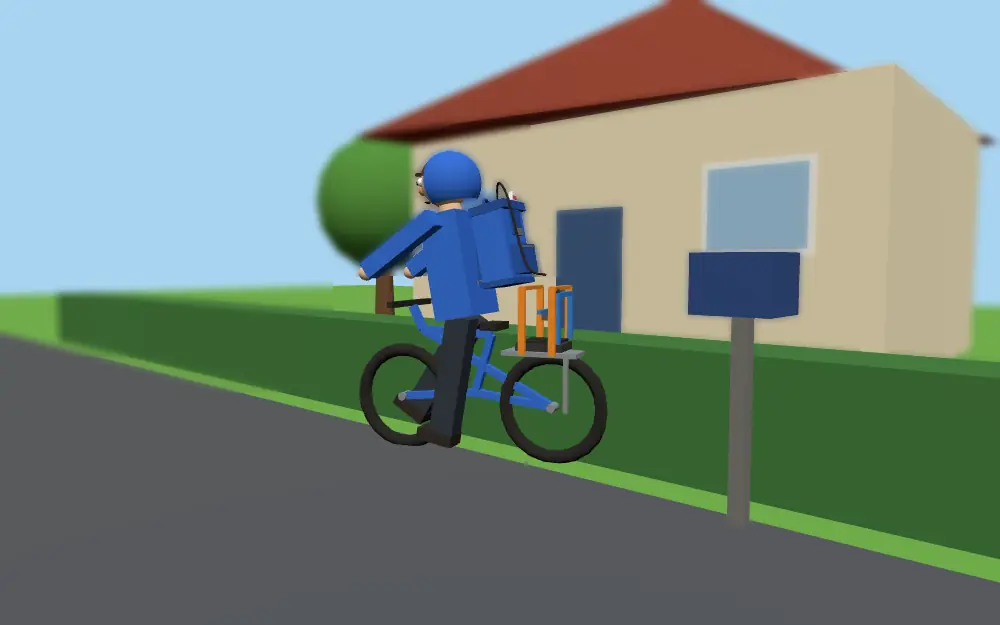
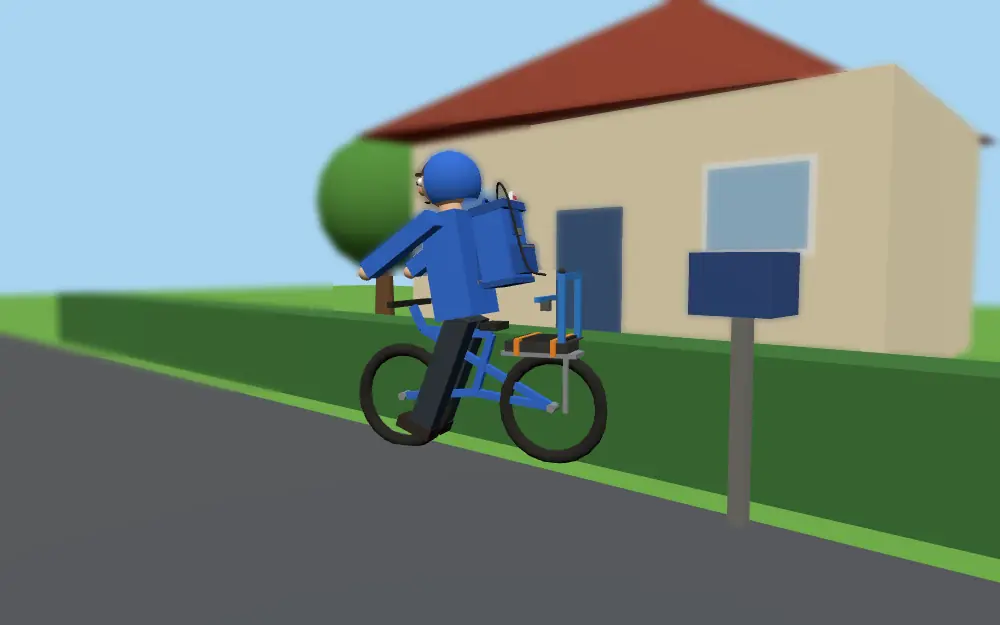
Soptippsvägen 1: punkt 9, 10, 12 och 13
- 9: Skrivare S syns tydligt på pakethållaren (samma modell, större, banden bara runt plattan);
  generatorcykeln är samma cykel som kom på vägen; introbilderna 9, 10 och 12 omrenderade
- 10: sms syns som bubbla uppe till höger när rösten börjar, även med en meny öppen;
  brorsans sms lästes upp två gånger – rättat
- 12: toasts U001–U013 på händelser (brevLast, morgonkortStangt, placerat:leveranslada, efter Alis hälsning, julens slut)
- 13: verktyg/test-start.mjs – spelet startar i en tom webbläsare utan sidfel

Claude-Session: https://claude.ai/code/session_014156cp9JxbGsW1A8ZsF5gD

Changed region(s): [[0.372, 0.4256, 0.589, 0.7296]]

diff --git a/spel/printa-hem/spel.js b/spel/printa-hem/spel.js
@@ -2918,7 +2918,7 @@ function startaDirekt(sk, val) {
     if (v.niva === 2 && sk.gen !== PETG_GEN) return false;   // PETG-saker kräver PETG-skrivaren
     if (sk.gen === PETG_GEN && v.niva !== 2) return false;
     if (v.niva && v.niva !== 2) {   // kräver en rulle av rätt nivå (förbrukas när utskriften startar)
-      if (!antalInv('rulle' + v.niva)) { setTimeout(() => ui.toast(`Kräver en rulle ${VAROR['rulle' + v.niva].namn.toLowerCase()} i verktygsraden eller kistan`, 'fel'), 50); return false; }
+      if (!antalInv('rulle' + v.niva)) { ui.toast(`Kräver en rulle ${VAROR['rulle' + v.niva].namn} i verktygsraden eller kistan`, 'fel'); return false; }   // U001: direkt
       taBortInv('rulle' + v.niva);
     }
     sk.jobb = { typ: val.typ };
@@ -3047,7 +3047,7 @@ const auto = { byggd: false, band: null, paket: [], bandT: 0, arm: null, armT: 0
 function monteraAuto(id) {
   if (id === 'utlada') {   // leveranslådan slår på upprepa för alla skrivare med autoprint (går att stänga av per skrivare)
     for (const sk of skrivare) if (sk.gen !== PETG_GEN) { sk.upprepaPa = true; if (sk.jobb?.typ && upprepbar(sk.jobb.typ)) sk.upprepa = sk.jobb.typ; }
-    sparaSkrivare(); setTimeout(() => ui.toast('Leveranslådan är på – skrivarna printar vidare av sig själva.', 'guld'), 2600);
+    sparaSkrivare(); handelse('placerat', { sak: 'leveranslada' });
   }
   S.auto[{ rullband: 'band', lastarm: 'lastarm', robotarm: 'arm', utlada: 'lada' }[id]] = true; byggAuto(); ljud.stor(); sparaSnart();
   ui.toast({ rullband: 'Rullbandet står klart! Bär skräp till inmatningen vid tippen – bandet tar det till containern.', lastarm: 'Lastarmen sitter vid tippen och lägger skräp på bandet åt dig. Den orkar bara lätta saker – trimma den hos Ali.', robotarm: 'Robotarmen sitter vid kvarnen – färdiga rullar laddas in i skrivarna automatiskt.', utlada: 'Leveranslådan står vid skrivaren. Välj en sak på skrivaren och slå på Autoprint – Ali hämtar lådan varje morgon.' }[id], 'guld');
@@ -3367,15 +3367,26 @@ const vagCykel = new THREE.Group(); {
   // pakethållaren över bakhjulet, med storebrors skrivare fastspänd med två orange spännband
   vagCykel.add(at(box(0.32, 0.03, 0.5, stal), 0, 0.72, -0.5));
   for (const x of [-0.14, 0.14]) vagCykel.add(at(box(0.03, 0.36, 0.03, stal), x, 0.54, -0.68));
-  const pakS = skapaSkrivare(1); pakS.scale.setScalar(0.62); pakS.position.set(0, 0.74, -0.5); vagCykel.add(pakS); vagCykel.userData.skrivare = pakS;
+  // punkt 9: samma Skrivare S som på gården (skapaSkrivare(1)), stor nog att kännas igen – spännbanden bara runt bottenplattan
+  const pakS = skapaSkrivare(1); pakS.scale.setScalar(0.82); pakS.position.set(0, 0.74, -0.5); vagCykel.add(pakS); vagCykel.userData.skrivare = pakS;
   const bandMat = mat(0xf28c28);
-  for (const z of [-0.6, -0.4]) { vagCykel.add(at(box(0.36, 0.025, 0.045, bandMat), 0, 1.14, z)); for (const x of [-0.18, 0.18]) vagCykel.add(at(box(0.025, 0.42, 0.045, bandMat), x, 0.93, z)); }
-  vagCykel.add(at(box(0.04, 0.32, 0.04, svart), 0.08, 0.16, -0.1).rotateZ(0.5));   // stödet
+  for (const z of [-0.62, -0.38]) { vagCykel.add(at(box(0.44, 0.02, 0.035, bandMat), 0, 0.815, z)); for (const x of [-0.215, 0.215]) vagCykel.add(at(box(0.02, 0.1, 0.035, bandMat), x, 0.77, z)); }
+  { const st = at(box(0.04, 0.32, 0.04, svart), 0.08, 0.16, -0.1).rotateZ(0.5); st.userData.stod = true; vagCykel.add(st); }   // stödet
   vagCykel.position.set(VAG_CYKEL.x, 0, VAG_CYKEL.z); vagCykel.rotation.set(0, VAG_CYKEL.rot, 0.08);
   vagCykel.traverse((o) => { if (o.isMesh) o.castShadow = true; });
   scen.add(vagCykel);
 }
 traffYta(vagCykel, 0.7, 1.2, 1.8);
+// punkt 9: generatorcykeln är samma cykel som kom på vägen (utan skrivaren, banden och stödet), upplyft på stället.
+// Den gamla lådcykelns delar döljs; generatorn och blixten sitter kvar.
+{
+  const c = vagCykel.clone(true); c.position.set(0, 0.18, 0); c.rotation.set(0, 0, 0);
+  const bort = []; c.traverse((o) => { if (o === c) return; if (o.type === 'Group' || o.userData.stod || (o.isMesh && o.material?.color?.getHex?.() === 0xf28c28)) bort.push(o); });
+  bort.forEach((o) => o.parent?.remove(o)); c.traverse((o) => { o.visible = true; });
+  for (const o of [...cykel.children]) if (o !== generator && o !== blixt && o !== pedaler && !(o.material === traffMat)) o.visible = false;
+  pedaler.position.y = 0.6; cykel.add(c);
+  cykel.userData.hjul = c.children.filter((o) => o.geometry?.type === 'TorusGeometry');
+}
 // stället som cykeln lyfts upp på vid linje 1 (bakhjulet blir fritt)
 const cykelStall = new THREE.Group(); {
   const m = mat(0x555c66, { metalness: 0.4 });
@@ -3454,7 +3465,7 @@ function korTextKo() {
     const x = textKo[i];
     if (x.o.stryksOm?.()) { textKo.splice(i, 1); textLogg('struken', x.kalla, x.o.text || '', 'pekar bakåt'); return; }
     if (x.vikt === 'REAKTION' && nu - x.t > REAKTION_MAX_VANTAN) { textKo.splice(i, 1); textLogg('struken', x.kalla, x.o.text || '', 'väntade för länge'); return; }
-    if (x.vikt === 'SMÅPRAT' && (!ui.butiksOverlay.hidden || pausad || !ui.igang)) continue;
+    if (x.vikt === 'SMÅPRAT' && (pausad || !ui.igang)) continue;   // punkt 10: sms syns även med en meny öppen
     if (x.kalla !== textSenastKalla && nu - textSenast < TEXT_MELLAN) return;
     textKo.splice(i, 1); textSenast = nu; textSenastKalla = x.kalla; x.visa(); return;
   }
@@ -4757,7 +4768,7 @@ function rolfBrevLast(i) {
   S.rolf.aktiv = true;
   const o = ROLF[i]; if (!o) return;
   if (!S.ritningar.includes('gava:' + o.vara)) S.ritningar.push('gava:' + o.vara);
-  setTimeout(() => ui.toast(`📐 3D-modellen till ${VAROR[o.vara].namn.toLowerCase()} låg med i brevet – printa den på skrivaren`, 'guld'), 1200);
+  efterBrev('rolf:' + i, () => ui.toast(`📐 3D-modellen till ${VAROR[o.vara].namn} låg med i brevet – printa den på skrivaren`, 'guld'));   // U003
   const fs = (o.forskott || []).filter((b) => !(b === 'nyckel' && S.tippNyckel) && !(b === 'karra' && S.karra));
   if (fs.length) {
     for (const b of fs) { if (b === 'nyckel') { S.tippNyckel = true; oppnaGrind(); } else if (b === 'karra') { S.karra = true; const k = laggTill('karra'); if (typeof k === 'number') byt(k); } }
@@ -4813,7 +4824,7 @@ function visaFynd(lista, efter) {
 }
 function efterBeloning(lista) {
   const nr = S.rolf.i - 1;
-  for (const b of lista) if (b.startsWith('tack:')) { if (!S.rolfNummer) setTimeout(() => sms('rolf', ROLF_TACK[b.slice(5)].text), 1200); S.rolf.presenter = (S.rolf.presenter || 0) + 1; andraRespekt(Math.round(6 + VAROR[b.slice(5)].present / 400), 'Gav Rolf en present'); setTimeout(() => ui.toast(`Rolf kommer nu oftare med lass – var ${Math.round(sopbilVar())} s och ${SOPBIL_LAST + sopbilExtra()} skräp per lass`, 'guld'), 2500); }
+  for (const b of lista) if (b.startsWith('tack:')) { if (!S.rolfNummer) setTimeout(() => sms('rolf', ROLF_TACK[b.slice(5)].text), 1200); S.rolf.presenter = (S.rolf.presenter || 0) + 1; andraRespekt(Math.round(6 + VAROR[b.slice(5)].present / 400), 'Gav Rolf en present'); setTimeout(() => ui.toast(`Rolf kommer nu oftare med lass – var ${Math.round(sopbilVar())} s och ${SOPBIL_LAST + sopbilExtra()} skräp per lass`, 'guld'), 1000); }   // U004: efter att Rolfs tack lästs (efterBeloning körs när rutan stängs)
   if (lista.includes('jobb')) andraRespekt(-3, 'Gjorde ett skumt jobb åt Rolf');
   const ovrigt = lista.includes('jobb') || lista.includes('heder') || lista.some((b) => b.startsWith('tack:') || b.startsWith('ritning:') || b.startsWith('nmynt:'));
   if (lista.includes('jobb')) sms('rolf', ROLF_JOBB[S.rolf.jobbTack % ROLF_JOBB.length].tackJa);
@@ -4871,7 +4882,34 @@ function smsFram(fran, text, id, o = {}) {
   textLogg('sms', fran, text);
   // syns direkt som en bubbla i inkorgen uppe till höger – uppläsningen väntar på sin tur i kön
   const m = { fran, text, ny: true }; S.sms.push(m); S.sms = S.sms.slice(-40); S.olasta = S.sms.filter((x) => x.ny).length; sparaSnart();
-  inkorg({ vem: fran, titel: AVSANDARE[fran]?.namn || fran, text, smsId: id, klar: () => { m.ny = false; smsLast(fran); } });
+  smsBubbla(fran, AVSANDARE[fran]?.namn || fran, text, () => { m.ny = false; smsLast(fran); });
+}
+// punkt 10: varje sms syns som en bubbla uppe till höger i samma ögonblick som rösten börjar – även när en meny är öppen.
+// Texten ligger kvar i Dagbok → Meddelanden (S.sms).
+const smsFack = document.createElement('div'); smsFack.className = 'hud-smsfack'; document.body.appendChild(smsFack);
+{ const st = document.createElement('style'); st.textContent = `.hud-smsfack{position:fixed;right:max(12px,env(safe-area-inset-right));top:calc(var(--bar-h,64px) + 10px);z-index:120;width:min(380px,92vw);display:flex;flex-direction:column;gap:8px;pointer-events:none}
+.hud-smsfack .hud-ios{position:relative;right:auto;top:auto;width:auto}`; document.head.appendChild(st); }
+function smsBubbla(vem, titel, text, klar) {
+  const el = document.createElement('div'); el.className = 'hud-ios';
+  el.innerHTML = `<div class="app app-portratt">${humorPortratt(vemAvSms(vem), text, 38)}</div><div class="inne"><div class="topp"><span>MEDDELANDEN</span><span class="nu">nu</span></div><div class="fran"><b>${rens(titel)}</b></div><div class="txt">${rens(text)}</div><div class="hud-bubbla-bar"><i></i></div></div>`;
+  let visad = false, start = 0;
+  const visa = () => {
+    if (visad) return; visad = true; start = performance.now();
+    triTon(); hudEl.querySelector('[data-hud="sms"]')?.animate([{ transform: 'scale(1.12)' }, { transform: 'scale(1)' }], { duration: 400 });
+    smsFack.prepend(el); requestAnimationFrame(() => el.classList.add('in'));
+    [...smsFack.children].slice(INKORG_MAX).forEach((x) => { x.classList.add('ut'); setTimeout(() => x.remove(), 500); });
+    textLogg('sms-bubbla', vem, text);
+    const bar = el.querySelector('.hud-bubbla-bar i');
+    const tick = () => {
+      const nu = performance.now(), slut = Math.max(start + 2500, pratarVem === vem ? pratarTill : 0);
+      bar.style.width = Math.min(100, (nu - start) / Math.max(1, slut - start) * 100) + '%';
+      if (nu < slut) { requestAnimationFrame(tick); return; }
+      klar?.(); setTimeout(() => { el.classList.add('ut'); setTimeout(() => el.remove(), 500); }, 6000);
+    };
+    requestAnimationFrame(tick);
+  };
+  prata(vem, text, 'STORY', { start: visa });
+  setTimeout(visa, 12000);   // reserv: rösten kom aldrig igång – bubblan visas ändå
 }
 function triTon() {
   try { const c = ljudCtx(); if (!c) return; [[1318.5, 0], [1046.5, 0.13], [1568, 0.26]].forEach(([f, d]) => {
@@ -5097,7 +5135,7 @@ function ruttnaOverNatten() {
   }
   for (const x of S.hotbar) if (x && RUTTNAR[x.typ]) { x.typ = RUTTNAR[x.typ]; n++; }
   for (const x of [...S.ryggsack, ...S.kistan]) if (x && RUTTNAR[x.typ]) { x.typ = RUTTNAR[x.typ]; n++; }
-  if (n) { ritaHotbar(); ritaHand(); setTimeout(() => ui.toast('🤢 Något luktar … Mammas mat har möglat och blommorna har vissnat. Trivseln sjunker.', 'fel'), 6500); sparaSnart(); }
+  if (n) { ritaHotbar(); ritaHand(); morgonToast('🤢 Något luktar … Mammas mat har möglat och blommorna har vissnat. Trivseln sjunker.', 'fel'); sparaSnart(); }
 }
 // kylen: färsk mat möglar inte där inne
 const KYLBAR = new Set(['burk_kompott', 'burk_raggmunk', 'burk_sill']);
@@ -5440,10 +5478,10 @@ const VARME_KRAV = { sommar: 0, host: 4, vinter: 9 };
 function kollaKyla() {     // körs när man somnar
   if (!S.kapitelKlart) return;   // värme och årstider räknas först i kapitel 2
   const a = arstid(), krav = VARME_KRAV[a], v = varme();
-  if (v >= krav) { if (a !== 'sommar' && !S.varmVisad?.[a]) { S.varmVisad = { ...(S.varmVisad || {}), [a]: true }; setTimeout(() => ui.toast(`🔥 Varmt och skönt i skjulet trots ${a === 'host' ? 'hösten' : 'vintern'}.`, 'bra'), 7000); } return; }
+  if (v >= krav) { if (a !== 'sommar' && !S.varmVisad?.[a]) { S.varmVisad = { ...(S.varmVisad || {}), [a]: true }; morgonToast(`🔥 Varmt och skönt i skjulet trots ${a === 'host' ? 'hösten' : 'vintern'}.`, 'bra'); } return; }
   S.frusDag = S.dag + 1; S.frusit = (S.frusit || 0) + 1;
   const vad = [!S.hem?.tak && 'tak', !S.hem?.dorr && 'dörr', (S.hem?.vagg || 0) < 4 && 'fler väggar', !S.hem?.golv && 'golv', a === 'vinter' && !placerade.some((p) => p.typ === 'kamin') && 'en vedkamin (ritning hos Ali)'].filter(Boolean);
-  setTimeout(() => ui.toast(`🥶 Du frös i natt! Trivsel −40 idag. Skjulet behöver: ${vad.join(', ')}.`, 'fel'), 7000);
+  morgonToast(`🥶 Du frös i natt! Trivsel −40 idag. Skjulet behöver: ${vad.join(', ')}.`, 'fel');
   const r = [['mamma', 'Pappa säger att det var minusgrader i natt. Har du LÅNGKALSONGER?? Jag stickar ett par. Två par.'], ['bror', 'Mamma har googlat "hypotermi". Hon har skickat länken till mig fyra gånger. Skaffa en kamin, för min skull.'], ['mamma', 'Jag har lagt raggsockor i en kasse. Och en filt. Och sylt. Pappa kör i morgon.']][S.frusit % 3];
   setTimeout(() => sms(r[0], r[1]), 15000);
 }
@@ -5515,10 +5553,10 @@ const BROR_SMS2 = 'Sälj den till Ali, han med affären vid tippen. Han köper g
 let aliRopTid = 0;
 function brorSms() {
   if (S.brorSms) return; S.brorSms = true; sparaSnart();
-  setTimeout(() => { smsFram('bror', BROR_SMS1); prata('bror', BROR_SMS1, 'STORY'); }, 2000);
+  setTimeout(() => { smsFram('bror', BROR_SMS1, undefined, { vikt: 'STORY' }); }, 2000);
   setTimeout(() => {
     if ((S.stat.salt || 0) > 0) { textLogg('struken', 'bror', BROR_SMS2 + ' (du har redan sålt)'); return; }   // pekar inte bakåt
-    smsFram('bror', BROR_SMS2); prata('bror', BROR_SMS2, 'STORY'); aliRopTid = performance.now() + 30000;
+    smsFram('bror', BROR_SMS2, undefined, { vikt: 'STORY', stryksOm: () => (S.stat.salt || 0) > 0 }); aliRopTid = performance.now() + 30000;
   }, 6000);
 }
 // Alis rop över vägen kommer bara om man inte har gått dit inom ca 30 s efter brorsans sms
@@ -6142,7 +6180,7 @@ function aliMinns() {
 function oppnaMarknad() {
   if (ui.butiksOverlay.hidden) handelse('oppnatButik');
   // punkt AX: krukreceptet kommer dag 2 på morgonen, gratis, första gången du öppnar butiken
-  if (S.dag >= 2 && !S.ritningar.includes('recept:kruka')) { S.ritningar.push('recept:kruka'); aliRepl = ALI_KRUKA; sparaSnart(); setTimeout(() => ui.toast('Ali gav dig receptet till blomkrukan – gratis', 'guld'), 400); }
+  if (S.dag >= 2 && !S.ritningar.includes('recept:kruka')) { S.ritningar.push('recept:kruka'); aliRepl = ALI_KRUKA; sparaSnart(); efterPrat('ali', () => ui.toast('Ali gav dig receptet till blomkrukan – gratis', 'guld')); }   // U008: efter Alis hälsning
   // en vy, två nivåer som alltid syns: SÄLJ (grönt – du får pengar) överst, KÖP (rött – det kostar) under
   const kopL = aliKopLista(), saljL = aliSaljLista(), ejL = aliEjLista();
   const hitta = (k) => k?.startsWith('s:') ? saljL.find((x) => 's:' + x.key === k) : k?.startsWith('k:') ? kopL.find((x) => 'k:' + x.key === k) : null;
@@ -7668,6 +7706,14 @@ function inkorg({ vem, titel, text, lapp = false, block = false, klar, fore, sms
   };
   if (block) budKo.unshift(lasUpp); else bud(lasUpp);
 }
+// punkt 12: fördröjda toasts kopplas till händelser
+const efterBrevKo = {};
+function efterBrev(id, fn, ms = 1000) { (efterBrevKo[id] = efterBrevKo[id] || []).push([fn, ms]); }
+paHandelse('brevLast', ({ id }) => { const l = efterBrevKo[id]; if (!l) return; delete efterBrevKo[id]; l.forEach(([fn, ms]) => setTimeout(fn, ms)); });
+const morgonToasts = [];   // sker under natten, visas när morgonkortet stängs
+const morgonToast = (text, typ) => { if (!morgonToasts.some(([t]) => t === text)) morgonToasts.push([text, typ]); };
+paHandelse('morgonkortStangt', () => { morgonToasts.splice(0).forEach(([t, typ], i) => setTimeout(() => ui.toast(t, typ), 600 + i * 2500)); });
+function efterPrat(vem, fn) { const t0 = performance.now(); const v = () => { if (performance.now() - t0 < 20000 && pratarVem === vem && performance.now() < pratarTill) { setTimeout(v, 250); return; } fn(); }; setTimeout(v, 400); }
 function visaLapp(id) {
   if (!lappInfo(id)) { textLogg('struken', 'lapp', id, 'lappen finns inte längre'); return; }
   if (!S.lappar.includes(id)) S.lappar.push(id);
@@ -7676,8 +7722,8 @@ function visaLapp(id) {
   if (/Storebror/.test(titel)) { sms('bror', text); sparaSnart(); return; }
   if (/^🧺 Ali/.test(titel)) { if (id === 'salt') S.aliStoryVisad = true; sms('ali', text); sparaSnart(); return; }
   // de stora dagboksögonblicken (dag 1, skylten) visas på pausad skärm och läses upp med din röst – innan någon instruktion
-  if (titel.includes('Dagbok')) inkorg({ vem: 'du', titel: 'Dagbok', text, lapp: true, block: id === 'start' || id === 'skylt' });
-  else medKo.push({ typ: 'lapp', titel, text });
+  if (titel.includes('Dagbok')) inkorg({ vem: 'du', titel: 'Dagbok', text, lapp: true, block: id === 'start' || id === 'skylt', klar: () => handelse('brevLast', { id }) });
+  else medKo.push({ typ: 'lapp', titel, text, id });
   sparaSnart();
 }
 
@@ -8105,7 +8151,7 @@ function visaNastaMeddelande() {
   };
   ritaLjud();
   medEl2.firstElementChild.appendChild(ljudKnapp);
-  knapp.onclick = stangMeddelande;
+  knapp.onclick = () => { const las = !knapp.disabled && !knapp.hidden; stangMeddelande(); if (las && m.id) handelse('brevLast', { id: m.id }); };
 }
 // muslåset kan beviljas en stund efter klicket på Starta – kommer det när ett meddelande visas släpper vi det så att man kan klicka Läst
 document.addEventListener('pointerlockchange', () => { if (document.pointerLockElement && !medEl2.hidden) document.exitPointerLock(); });
@@ -8222,7 +8268,7 @@ function uppdatera(dt) {
       if (S.strom < stromMax() - 5) fullVarnad = false;
       S.stat.trampat += TRAMP_PER_S * dt;
       trampTid += dt;
-      pedaler.rotation.x += dt * 9; hjul.rotation.x += dt * 14;
+      pedaler.rotation.x += dt * 9; hjul.rotation.x += dt * 14; cykel.userData.hjul?.forEach((h) => { h.rotation.x += dt * 14; });
       if (trampTid > 0.25) { trampTid = 0; ljud.borsta(); }
     }
 
@@ -8772,7 +8818,7 @@ function kollaPolett() {
   S.folkbokMal = true; markTavla.visible = true; S.mark.tips = true; sparaSnart();
   setTimeout(() => sms('mamma', 'Paketet kom TILLBAKA. Det står "Okänd mottagare". Är du ens skriven där?? Vart ska jag skicka din POST?!'), 4000);
   setTimeout(() => visaLapp('polett'), 9000);
-  setTimeout(() => ui.toast('💡 Poletten trillar ner: du bor faktiskt här. Nytt mål: bli folkbokförd (tavlan vid vägen).', 'guld'), 12000);
+  efterBrev('polett', () => ui.toast('💡 Poletten trillar ner: du bor faktiskt här. Nytt mål: bli folkbokförd (tavlan vid vägen).', 'guld'));   // U011: när mammas paket-dagbok är läst
   setTimeout(() => sms('bror', 'Mamma har ringt Skatteverket. Två gånger. De sa att du måste äga där du bor eller ha ett kontrakt. Hon frågade om de kunde göra ett undantag "för det är ju mitt barn". De kunde inte.'), 30000);
 }
 function folkbokfor() {
@@ -8873,7 +8919,7 @@ function rostManus() {
 // Bilderna renderas ur spelet (verktyg/ai3.mjs → intro/<namn>.webp). Rummet i kort 2–6 är samma bakgrund – bara kalendern,
 // mamma och stöket byts som lager ovanpå. Ingen svart blinkning mellan korten: lagren tonas (0,4 s). Klick/mellanslag = nästa kort.
 const SKJUL_PTS = {"tak":[[0.2273,0.2665],[0.3387,0.2101],[0.7586,0.181],[0.7778,0.2417],[0.2273,0.2665]],"dorr":[[0.4176,0.7275],[0.4135,0.3365],[0.5517,0.3352],[0.5491,0.7497]],"fonster":[[0.3103,0.4923],[0.3078,0.3865],[0.3794,0.3876],[0.381,0.4969],[0.3103,0.4923]],"dorrMitt":[0.481,0.5442]};
-const KORT12_PTS = {"stall":[[49.3,44.6,39.9,42.7],[49.3,43.7,49.3,44.6],[49.3,44.6,49.8,44.3],[40.5,42.5,49.8,44.3],[49.8,44.3,49.8,43.4],[39.9,41.9,49.3,43.7],[49.8,43.4,49.3,43.7],[43.3,43.4,42.5,43.3],[43.1,35.7,43.3,43.4],[43.3,43.4,43.8,43.1],[49.8,43.4,40.5,41.6],[43.1,43,42.5,43.3],[42.5,43.3,42.4,35.6],[43.1,43,43.8,43.1],[43.8,43.1,43.7,35.6],[42.9,35.5,43.1,43],[40.5,42.5,39.9,42.7],[39.9,42.7,39.9,41.9],[40.5,41.6,40.5,42.5],[53.8,42,45,40.4],[53.8,41.1,53.8,42],[53.8,42,54.2,41.7],[39.9,41.9,40.5,41.6],[45.5,40.2,54.2,41.7],[54.2,41.7,54.2,40.9],[45,39.7,53.8,41.1],[54.2,40.9,53.8,41.1],[48.2,41,47.4,40.9],[48.1,34.1,48.2,41],[48.2,41,48.6,40.8],[47.9,40.7,47.4,40.9],[47.4,40.9,47.4,34],[54.2,40.9,45.5,39.5],[47.9,40.7,48.6,40.8],[48.6,40.8,48.6,33.9],[47.9,33.9,47.9,40.7],[45.5,40.2,45,40.4],[45,40.4,45,39.7],[45.5,39.5,45.5,40.2],[45,39.7,45.5,39.5],[43.2,36.2,42.4,36.1],[43.1,35.3,43.2,36.2],[43.2,36.2,48.6,34.4],[47.9,34.3,42.4,36.1],[42.4,36.1,42.4,35.2],[42.4,35.6,43.1,35.7],[43.7,35.6,43.1,35.7],[43.7,35.6,42.9,35.5],[42.4,35.6,42.9,35.5],[42.4,35.2,43.1,35.3],[48.6,33.5,43.1,35.3],[42.4,35.2,47.9,33.4],[47.9,34.3,48.6,34.4],[48.6,34.4,48.6,33.5],[47.9,33.4,47.9,34.3],[47.4,34,48.1,34.1],[48.6,33.9,48.1,34.1],[47.4,34,47.9,33.9],[48.6,33.9,47.9,33.9],[48.6,33.5,47.9,33.4]],"kabel":[[45.6,34.7],[46,35.3],[46.3,35.9],[46.6,36.5],[46.9,37.1],[47.2,37.7],[47.5,38.3],[47.8,38.8],[48,39.1],[48.3,39.3],[48.6,39.4],[48.9,39.3],[49.2,39.1],[49.5,38.7],[49.8,38.3],[50.1,37.9],[50.4,37.3],[50.7,36.8],[50.9,36.2],[51.2,35.7],[51.5,35.1],[51.7,34.5],[52,33.8],[52.3,33.1],[52.5,32.3],[52.7,31.5],[52.9,30.7],[53.2,29.9],[53.4,29.1],[53.6,28.4],[53.8,27.6]]};   // punkt BE: ritningen i kort 12 (räknas fram av verktyg/ai3.mjs)
+const KORT12_PTS = {"stall":[[49.3,44.6,39.9,42.7],[49.3,43.7,49.3,44.6],[49.3,44.6,49.8,44.3],[40.5,42.5,49.8,44.3],[49.8,44.3,49.8,43.4],[39.9,41.9,49.3,43.7],[49.8,43.4,49.3,43.7],[43.3,43.4,42.5,43.3],[43.1,35.7,43.3,43.4],[43.3,43.4,43.8,43.1],[49.8,43.4,40.5,41.6],[43.1,43,42.5,43.3],[42.5,43.3,42.4,35.6],[43.1,43,43.8,43.1],[43.8,43.1,43.7,35.6],[42.9,35.5,43.1,43],[40.5,42.5,39.9,42.7],[39.9,42.7,39.9,41.9],[40.5,41.6,40.5,42.5],[53.8,42,45,40.4],[53.8,41.1,53.8,42],[53.8,42,54.2,41.7],[39.9,41.9,40.5,41.6],[45.5,40.2,54.2,41.7],[54.2,41.7,54.2,40.9],[45,39.7,53.8,41.1],[54.2,40.9,53.8,41.1],[48.2,41,47.4,40.9],[48.1,34.1,48.2,41],[48.2,41,48.6,40.8],[47.9,40.7,47.4,40.9],[47.4,40.9,47.4,34],[54.2,40.9,45.5,39.5],[47.9,40.7,48.6,40.8],[48.6,40.8,48.6,33.9],[47.9,33.9,47.9,40.7],[45.5,40.2,45,40.4],[45,40.4,45,39.7],[45.5,39.5,45.5,40.2],[45,39.7,45.5,39.5],[43.2,36.2,42.4,36.1],[43.1,35.3,43.2,36.2],[43.2,36.2,48.6,34.4],[47.9,34.3,42.4,36.1],[42.4,36.1,42.4,35.2],[42.4,35.6,43.1,35.7],[43.7,35.6,43.1,35.7],[43.7,35.6,42.9,35.5],[42.4,35.6,42.9,35.5],[42.4,35.2,43.1,35.3],[48.6,33.5,43.1,35.3],[42.4,35.2,47.9,33.4],[47.9,34.3,48.6,34.4],[48.6,34.4,48.6,33.5],[47.9,33.4,47.9,34.3],[47.4,34,48.1,34.1],[48.6,33.9,48.1,34.1],[47.4,34,47.9,33.9],[48.6,33.9,47.9,33.9],[48.6,33.5,47.9,33.4]],"kabel":[[45.6,34.7],[46,35.3],[46.3,35.9],[46.6,36.5],[46.9,37.1],[47.2,37.7],[47.5,38.3],[47.8,38.8],[48,39.1],[48.3,39.3],[48.6,39.4],[48.9,39.3],[49.2,39.1],[49.5,38.7],[49.8,38.3],[50.1,37.9],[50.4,37.3],[50.7,36.8],[50.9,36.2],[51.2,35.7],[51.5,35.1],[51.7,34.5],[52,33.8],[52.3,33.1],[52.5,32.3],[52.7,31.5],[52.9,30.7],[53.2,29.9],[53.4,29.1],[53.6,28.4],[53.8,27.6]]}
 const KORT13_PTS = {"kvarn":[[73.1,53,69.9,48.6],[58.9,48.6,60.3,53],[73.1,51.9,73.1,53],[73.1,53,60.3,53],[60.3,53,60.4,51.9],[69.9,47.6,73.1,51.9],[60.4,51.9,58.9,47.6],[60.4,51.9,73.1,51.9],[58.9,47.6,58.9,48.6],[58.9,48.6,69.9,48.6],[69.9,48.6,69.9,47.6],[41.1,47.8,42.9,42.2],[28.8,42.2,23.3,47.8],[40.6,27.5,41.1,47.8],[41.1,47.8,23.3,47.8],[23.3,47.8,21.9,27.5],[69.9,47.6,58.9,47.6],[43.2,42.4,43.6,40.8],[39.7,40.8,38.9,42.4],[43.1,39.3,43.2,42.4],[43.2,42.4,38.9,42.4],[38.9,42.4,38.9,39.3],[28,26.1,28.8,42.2],[28.8,42.2,42.9,42.2],[42.9,42.2,42.7,26.1],[26.4,41.5,25.5,41.3],[27.1,41.3,26.4,41.5],[25.5,41.3,24.9,40.8],[27.8,40.8,27.1,41.3],[26.7,40.2,25.3,41.3],[25.3,41.3,24.7,41.1],[25.9,41.1,25.3,41.3],[25.9,41,26.7,41.2],[26.7,41.2,27.5,41],[26,41.2,26.3,40.9],[24.7,40.9,24.3,41.2],[25.5,33,26,41.2],[26,41.2,24.3,41.2],[24.3,41.2,23.8,33],[24.7,41.1,26.1,40],[25.9,41.1,27.2,40],[24.7,41.1,24.5,40.5],[26.1,40.5,25.9,41.1],[25.3,40.5,25.9,41],[27.5,41,28.1,40.5],[24.2,32.8,24.7,40.9],[24.7,40.9,26.3,40.9],[26.3,40.9,25.9,32.8],[24.9,40.8,24.5,40.1],[28.1,40.1,27.8,40.8],[26.1,40.8,27.4,39.7],[39.7,37.9,39.7,40.8],[39.7,40.8,43.6,40.8],[43.6,40.8,43.6,37.9],[40.6,40.8,41.5,39.9],[40.6,40.8,40.3,40.7],[40.4,40.4,40.6,40.8],[40.3,40.7,41.2,39.8],[40.3,40.7,39.8,40.3],[24.9,39.8,25.3,40.5],[28.1,40.5,28.4,39.8],[24.5,40.5,25.8,39.4],[26.1,40.5,27.4,39.4],[24.5,40.5,24.7,39.9],[25.8,39.9,26.1,40.5],[24.5,40.5,25.8,39.4],[40.4,40.4,41.3,39.5],[39.9,39.9,40.4,40.4],[40.7,39.3,39.8,40.3],[39.8,40.3,39.3,39.7],[26.1,40,26.7,40.2],[26.7,40.2,27.2,40],[24.5,40.1,24.4,39.3],[28,39.3,28.1,40.1],[28.1,40.1,28.4,39.8],[25.8,39.4,26.1,40],[27.2,40,27.4,39.4],[24.7,39.9,26,38.9],[25.8,39.9,27.1,38.9],[24.7,39.9,25.2,39.7],[25.2,39.7,25.8,39.9],[39.9,39.9,40.8,38.9],[41.5,39.9,42.4,38.9],[39.3,39.5,39.9,39.9],[24.8,39,24.9,39.8],[28.4,39.8,28.4,39],[41.2,39.8,42.2,38.9],[24.4,39.7,24.8,39.4],[25.2,39.7,26.6,38.7],[39.3,39.7,40.2,38.8],[39.3,39.7,39.1,39.4],[39.3,39.5,40.3,38.5],[41.3,39.5,42.3,38.6],[26,38.9,25.8,39.4],[27.4,39.4,27.1,38.9],[39.1,39.4,40,38.4],[24.4,39.3,24.7,38.6],[27.6,38.6,28,39.3],[43.6,37.9,43.1,39.3],[38.9,39.3,39.7,37.9],[38.9,39.3,43.1,39.3],[41.7,38.4,40.7,39.3],[25.1,38.3,24.8,39],[28.4,39,28,38.3],[26.6,38.7,26,38.9],[27.1,38.9,26.6,38.7],[40.8,38.9,41.8,38],[42.2,38.9,43.1,37.9],[42.4,38.9,43.4,38],[40.2,38.8,41.2,37.9],[24.7,38.6,25.4,38.1],[27,38.1,27.6,38.6],[42.3,38.6,43.2,37.7],[40.3,38.5,41.3,37.6],[40,38.4,41,37.5],[42.6,37.5,41.7,38.4],[25.7,37.8,25.1,38.3],[28,38.3,27.3,37.8],[25.4,38.1,26.2,37.9],[26.2,37.9,27,38.1],[41.8,38,42.7,37.1],[43.4,38,44.3,37.1],[43.6,37.9,39.7,37.9],[41.2,37.9,42.1,36.9],[43.1,37.9,44.1,37],[26.5,37.7,25.7,37.8],[27.3,37.8,26.5,37.7],[43.2,37.7,44.1,36.8],[41.3,37.6,42.2,36.7],[41,37.5,41.9,36.6],[43.6,36.5,42.6,37.5],[42.7,37.1,43.6,36.2],[44.3,37.1,45.3,36.1],[44.1,37,45.1,36],[42.1,36.9,43.1,36],[44.1,36.8,45,35.9],[42.2,36.7,43.1,35.8],[41.9,36.6,42.9,35.7],[44.6,35.5,43.6,36.5],[43.6,36.2,44.5,35.3],[45.3,36.1,46.2,35.1],[43.1,36,44,35],[45.1,36,46,35],[45,35.9,45.9,34.9],[43.1,35.8,44,34.9],[42.9,35.7,43.8,34.7],[45.5,34.5,44.6,35.5],[44.5,35.3,45.4,34.4],[24.8,34.2,23,35.2],[23,35.2,22.4,35],[23.6,35,23,35.2],[46.2,35.1,47.1,34.1],[22.4,35,24.2,34],[23.6,35,25.4,34],[22.4,35,22,34.5],[24,34.5,23.6,35],[22.8,34.5,22.8,35],[21.9,34.5,22,35],[44,35,45,34],[46,35,46.9,33.9],[23.6,34.4,23.6,34.9],[21.4,34.4,21.6,34.9],[44,34.9,44.8,34],[45.9,34.9,46.7,33.9],[21.5,34.2,21.6,34.7],[24.1,34.7,24.2,34.2],[43.8,34.7,44.7,33.8],[22.1,34,22.2,34.6],[24.3,34,24.2,34.6],[22,34.5,23.8,33.6],[24,34.5,25.7,33.6],[22,34.5,22,33.8],[24,33.8,24,34.5],[24,34.5,25.7,33.6],[22.7,33.9,22.8,34.5],[21.9,33.9,21.9,34.5],[22.9,34,23,34.5],[23.8,34,23.7,34.5],[46.4,33.5,45.5,34.5],[23.5,33.8,23.6,34.4],[21.5,33.8,21.4,34.4],[45.4,34.4,46.2,33.5],[24.2,34,24.8,34.2],[24.8,34.2,25.4,34],[21.6,33.7,21.5,34.2],[24.2,34.2,24.1,33.7],[21.9,34.1,23.8,33.3],[47.1,34.1,47.9,33],[23.8,33.6,24.2,34],[25.4,34,25.7,33.6],[22.1,33.6,22.1,34],[22.9,33.5,22.9,34],[23.7,33.5,23.8,34],[24.1,33.6,24.3,34],[44.8,34,45.7,33],[45,34,45.8,33],[46.9,33.9,47.8,32.8],[46.7,33.9,47.5,32.9],[22,33.8,23.8,33],[24,33.8,25.7,33],[22,33.8,22.3,33.3],[23.5,33.3,24,33.8],[44.7,33.8,45.5,32.8],[23.8,33,23.8,33.6],[25.7,33.6,25.7,33],[23.3,28.9,23.6,33.6],[23.6,33.6,39.4,33.6],[39.4,33.6,39.3,28.9],[46.2,33.5,46.9,32.5],[47.2,32.4,46.4,33.5],[22.3,33.3,24.1,32.5],[23.5,33.3,25.3,32.5],[22.3,33.3,22.9,33.1],[22.9,33.1,23.5,33.3],[22.9,33.1,24.7,32.3],[25.9,32.8,25.5,33],[23.8,33,24.2,32.8],[23.8,33,25.5,33],[24.1,32.5,23.8,33],[25.7,33,25.3,32.5],[45.7,33,46.4,32.1],[45.8,33,46.6,32],[47.9,33,48.6,31.9],[47.5,32.9,48.2,31.8],[25.9,32.8,24.2,32.8],[45.5,32.8,46.3,31.8],[47.8,32.8,48.5,31.7],[24.7,32.3,24.1,32.5],[25.3,32.5,24.7,32.3],[46.9,32.5,47.6,31.4],[48,31.3,47.2,32.4],[46.4,32.1,47.1,31],[46.6,32,47.3,30.9],[48.6,31.9,49.3,30.8],[46.3,31.8,47,30.8],[48.2,31.8,48.9,30.7],[48.5,31.7,49.2,30.6],[47.6,31.4,48.3,30.4],[48.7,30.1,48,31.3],[47.1,31,47.7,30],[47.3,30.9,48,29.8],[47,30.8,47.6,29.7],[49.3,30.8,49.9,29.7],[48.9,30.7,49.5,29.6],[49.2,30.6,49.9,29.5],[48.3,30.4,48.9,29.3],[49.3,29,48.7,30.1],[47.7,30,48.4,28.9],[48,29.8,48.7,28.7],[47.6,29.7,48.3,28.6],[49.9,29.7,50.6,28.6],[49.5,29.6,50.2,28.6],[49.9,29.5,50.5,28.4],[48.9,29.3,49.5,28.3],[50,27.9,49.3,29],[39.3,28.9,23.3,28.9],[48.4,28.9,49,27.8],[48.7,28.7,49.3,27.6],[48.3,28.6,48.9,27.6],[50.6,28.6,51.2,27.6],[50.2,28.6,50.8,27.6],[50.5,28.4,51.1,27.3],[49.5,28.3,50.1,27.2],[50.6,26.8,50,27.9],[49,27.8,49.6,26.8],[48.9,27.6,49.6,26.5],[49.3,27.6,50,26.5],[51.2,27.6,51.8,26.6],[50.8,27.6,51.4,26.6],[42.7,26.1,40.6,27.5],[21.9,27.5,28,26.1],[21.9,27.5,40.6,27.5],[51.1,27.3,51.8,26.2],[32.7,27.2,31,27.1],[34.6,27.1,32.7,27.2],[50.1,27.2,50.8,26.2],[31,27.1,30,27],[36.3,27,34.6,27.1],[37.1,26.8,36.3,27],[21.4,15.7,29.9,26.9],[30,26.8,31,26.7],[44,16,37.2,26.8],[49.6,26.8,50.3,25.8],[51.3,25.8,50.6,26.8],[31,26.7,32.6,26.6],[36,26.6,37,26.7],[32.6,26.6,34.4,26.5],[34.4,26.5,36,26.6],[51.8,26.6,52.5,25.6],[51.4,26.6,52,25.6],[49.6,26.5,50.2,25.4],[50,26.5,50.6,25.5],[51.8,26.2,52.4,25.3],[50.8,26.2,51.4,25.3],[42.7,26.1,28,26.1],[50.3,25.8,50.9,24.8],[52,24.8,51.3,25.8],[52.5,25.6,53.1,24.8],[52,25.6,52.7,24.8],[54.8,24.7,55.7,25.6],[54.4,24.7,55.3,25.6],[56.2,25.2,55.7,25.6],[55.7,25.6,55.3,25.6],[55.3,25.6,55.3,25.1],[50.6,25.5,51.3,24.4],[50.2,25.4,50.9,24.4],[52.4,25.3,53.1,24.4],[51.4,25.3,52.1,24.4],[55.4,24.3,56.2,25.2],[56.5,24.5,56.2,25.2],[54.4,24.3,55.3,25.1],[55.3,25.1,55.6,24.5],[50.9,24.8,51.7,23.8],[52.7,23.8,52,24.8],[53.1,24.8,53.8,24.2],[52.7,24.8,53.3,24.2],[54.1,24.1,54.8,24.7],[53.7,24.1,54.4,24.7],[54.8,23.8,55.6,24.5],[56.5,24.5,55.8,23.8],[55.6,24.5,56.1,24.1],[56.5,24.1,56.5,24.5],[50.9,24.4,51.7,23.4],[51.3,24.4,52.1,23.4],[53.1,24.4,53.9,23.7],[52.1,24.4,52.9,23.7],[54.6,23.7,55.4,24.3],[53.7,23.7,54.4,24.3],[53.8,24.2,54.1,24.1],[53.3,24.2,53.7,24.1],[53.7,24.1,54.1,24.1],[55.4,23.4,56.1,24.1],[55.8,23.4,56.5,24.1],[56.1,24.1,56.5,24.1],[51.7,23.8,52.6,23],[53.6,23,52.7,23.8],[53.9,23,54.8,23.8],[55.8,23.8,54.9,23],[53.9,23.7,54.6,23.7],[52.9,23.7,53.7,23.7],[51.7,23.4,52.7,22.5],[52.1,23.4,53.1,22.5],[54.4,22.5,55.4,23.4],[54.8,22.5,55.8,23.4],[52.6,23,53.9,23],[54.9,23,53.6,23],[52.7,22.5,54.4,22.5],[53.1,22.5,54.8,22.5],[54.8,22.5,54.4,22.5],[35.5,16.7,30.4,16.6],[40,16.6,35.5,16.7],[30.4,16.6,25.7,16.4],[43.1,16.4,40,16.6],[25.7,16.4,22.3,16],[44,16,43.1,16.4],[22.3,16,21.5,15.6],[41.9,15.6,44,16],[21.5,15.6,24.2,15.3],[36.7,15.3,41.9,15.6],[24.2,15.3,30,15.1],[30,15.1,36.7,15.3]],"extruder":[[65.6,47.3,63.2,43.2],[51.6,43.2,51.9,47.3],[66.2,32.1,65.6,47.3],[65.6,47.3,51.9,47.3],[51.9,47.3,51.9,32.1],[52.8,40.5,52.8,43.6],[52.8,43.6,64.9,43.6],[64.9,43.6,65,40.5],[51.6,30.2,51.6,43.2],[51.6,43.2,63.2,43.2],[63.2,43.2,63.6,30.2],[65,40.5,52.8,40.5],[62.7,38.1,62.9,38.7],[63.1,38.7,63.3,38.1],[61.4,38.7,61.2,38.1],[61.7,38.1,61.6,38.7],[58.4,38.1,58.5,38.7],[58.7,38.7,58.8,38.1],[57,38.7,56.9,38.1],[57.2,38.1,57.1,38.7],[65.3,37.8,65.5,38.3],[65.7,38.3,65.9,37.8],[52.6,38.3,52.6,37.8],[52.7,37.8,52.6,38.3],[62.6,37.1,62.7,38.1],[63.3,38.1,63.4,37.1],[61.2,38.1,61.1,37.1],[61.8,37.1,61.7,38.1],[58.3,37.1,58.4,38.1],[58.8,38.1,58.9,37.1],[56.9,38.1,56.8,37.1],[57.2,37.1,57.2,38.1],[65.2,37,65.3,37.8],[65.9,37.8,66,37],[52.6,37.8,52.5,37],[52.7,37,52.7,37.8],[66,37.8,66.6,37.8],[66.6,37.8,66,37.6],[67.1,37.6,66.6,37.8],[65.1,37.4,66,37.8],[66,37.8,67,37.4],[65.2,37.5,52.5,37.7],[62.6,37.7,61.1,37.7],[58.3,37.7,56.8,37.7],[66,37.6,65.1,37.4],[66,37.6,65.8,37],[67.4,37,67.1,37.6],[64.8,36.5,65.1,37.4],[67,37.4,67.4,36.5],[67.4,37.2,67.4,36.8],[63.4,37.1,63.4,35.9],[62.6,36,62.6,37.1],[61.8,35.9,61.8,37.1],[61.1,37.1,61.1,36],[58.9,37.1,58.8,35.9],[58.3,36,58.3,37.1],[57.2,35.9,57.2,37.1],[56.8,37.1,56.8,36],[66,37,66,36],[65.2,36.1,65.2,37],[52.7,36,52.7,37],[52.5,37,52.5,36.1],[65.8,37,64.8,36.5],[67.4,37,67.4,36.5],[65.8,37,66.1,36.5],[67.2,36.5,67.4,37],[65.8,37,64.8,36.5],[58.9,36.6,57.2,35],[66.1,36.5,65.2,35.6],[67.2,36.5,67,35.6],[66.1,36.5,66.6,36.2],[66.6,36.2,67.2,36.5],[65.2,35.6,64.8,36.5],[67.4,36.5,67,35.6],[66.6,36.2,66.1,35.3],[65.2,35.3,65.2,36.1],[52.5,36.1,52.5,35.3],[66,36,65.8,35.2],[52.6,35.2,52.7,36],[62.7,35,62.6,36],[61.1,36,61.1,35],[58.3,35,58.3,36],[56.8,36,56.8,35],[66,35.9,52.7,35.6],[63.4,35.9,63.2,34.9],[61.7,34.9,61.8,35.9],[58.8,35.9,58.7,34.9],[57.2,34.9,57.2,35.9],[63.4,35.7,61.8,35.7],[66.1,35.3,65.2,35.6],[67,35.6,66.1,35.3],[65.4,34.8,65.2,35.3],[52.5,35.3,52.6,34.8],[65.8,35.2,65.6,34.8],[52.6,34.8,52.6,35.2],[62.8,34.4,62.7,35],[61.1,35,61.3,34.4],[58.5,34.4,58.3,35],[56.8,35,56.9,34.4],[63.2,34.9,63,34.4],[61.5,34.4,61.7,34.9],[58.7,34.9,58.6,34.4],[57,34.4,57.2,34.9],[66.5,32.2,63.8,30.3],[51.4,30.3,51.7,32.2],[66.6,30.9,66.5,32.2],[66.5,32.2,51.7,32.2],[51.7,32.2,51.7,30.9],[63.6,30.2,66.2,32.1],[51.9,32.1,51.6,30.2],[51.9,32.1,66.2,32.1],[63.8,29.2,66.6,30.9],[51.7,30.9,51.4,29.2],[51.7,30.9,66.6,30.9],[51.4,29.2,51.4,30.3],[51.4,30.3,63.8,30.3],[63.8,30.3,63.8,29.2],[63.6,30.2,51.6,30.2],[55.9,30.2,55.1,30.1],[56.8,30.1,55.9,30.2],[55.1,30.1,54.5,30],[57.2,30,56.8,30.1],[52.1,25.3,54.4,30],[59.7,25.4,57.2,30],[54.5,29.9,54.9,29.8],[56.5,29.8,57.1,29.9],[54.9,29.8,55.7,29.8],[55.7,29.8,56.5,29.8],[63.8,29.2,51.4,29.2],[53.8,25.5,56.2,25.6],[56.2,25.6,58.5,25.5],[52.3,25.4,53.8,25.5],[58.5,25.5,59.6,25.4],[59.6,25.4,59.3,25.2],[53.5,25.1,52.3,25.2],[59.3,25.2,57.8,25.1],[55.6,25.1,53.5,25.1],[57.8,25.1,55.6,25.1]],"rulle":[[66,50.8,64.4,50.6],[67.5,50.6,66,50.8],[64.4,50.5,65.9,50.7],[65.9,50.7,67.5,50.5],[64.4,50.6,63.1,49.9],[69,49.9,67.5,50.6],[63,49.8,64.4,50.5],[67.5,50.5,68.9,49.8],[63.1,49.9,62,48.9],[70.1,48.9,69,49.9],[61.9,48.8,63,49.8],[68.9,49.8,70,48.8],[65.9,49.5,64.8,49.3],[67.1,49.3,65.9,49.5],[64.8,49.3,63.8,48.8],[68.1,48.8,67.1,49.3],[65.1,49.1,63.6,48.9],[66.5,48.9,65.1,49.1],[63.6,48.8,65,49],[65,49,66.5,48.8],[63.6,48.9,62.3,48.3],[67.9,48.3,66.5,48.9],[62,48.9,61.3,47.5],[70.9,47.5,70.1,48.9],[62.3,48.2,63.6,48.8],[66.5,48.8,67.8,48.2],[61.3,47.4,61.9,48.8],[70,48.8,70.8,47.4],[63.8,48.8,63,48],[69,48,68.1,48.8],[62.3,48.3,61.3,47.3],[69,47.3,67.9,48.3],[61.3,47.2,62.3,48.2],[67.8,48.2,68.9,47.2],[63,48,62.5,47],[69.6,47,69,48],[64,47.8,65.1,48],[65.1,48,66.2,47.8],[63.1,47.3,64,47.8],[66.2,47.8,67.2,47.3],[66.1,47.6,65.3,47.3],[66.9,47.3,66.1,47.6],[61.3,47.5,61.1,46],[71.2,46,70.9,47.5],[61,45.9,61.3,47.4],[70.8,47.4,71.1,45.9],[61.3,47.3,60.7,46],[69.7,46,69,47.3],[62.3,46.6,63.1,47.3],[67.2,47.3,68,46.6],[65.3,47.3,64.7,46.8],[67.5,46.8,66.9,47.3],[60.6,45.9,61.3,47.2],[68.9,47.2,69.7,45.9],[62.5,47,62.4,45.9],[69.8,45.9,69.6,47],[64.7,46.8,64.5,46],[67.8,46,67.5,46.8],[65.2,45.2,66.1,46.7],[66.1,46.7,65.7,46.6],[66.6,46.6,66.1,46.7],[61.9,45.7,62.3,46.6],[68,46.6,68.6,45.7],[65.7,46.6,64.8,45],[66.6,46.6,65.6,45],[65.7,46.6,65.5,46.3],[66.8,46.3,66.6,46.6],[65.5,46.3,64.5,44.7],[66.8,46.3,65.8,44.7],[65.5,46.3,65.5,45.8],[66.8,45.8,66.8,46.3],[66.9,46.2,65.8,44.8],[65.5,46.1,64.5,44.5],[60.7,46,60.5,44.6],[70,44.6,69.7,46],[61.1,46,61.4,44.5],[71,44.5,71.2,46],[61.1,46,61,45.9],[71.2,46,71.1,45.9],[64.5,46,64.8,45.2],[67.6,45.2,67.8,46],[64.4,45.8,65.1,46],[65.1,46,65.9,45.8],[64.5,46,63.7,44.5],[67.8,46,66.7,44.8],[60.4,44.5,60.6,45.9],[69.7,45.9,69.9,44.5],[61.3,44.4,61,45.9],[71.1,45.9,71,44.4],[62.4,45.9,62.6,44.8],[69.7,44.8,69.8,45.9],[62.4,45.9,61.7,44.6],[69.8,45.9,68.8,44.6],[63.9,45.3,64.4,45.8],[65.9,45.8,66.5,45.3],[65.5,45.8,64.6,44.3],[66.8,45.8,65.8,44.3],[65.5,45.8,65.8,45.5],[66.6,45.5,66.8,45.8],[61.7,44.6,61.9,45.7],[68.6,45.7,68.8,44.6],[65.8,45.5,64.8,44],[66.6,45.5,65.6,44],[65.8,45.5,66.2,45.4],[66.2,45.4,66.6,45.5],[66.2,45.4,65.2,43.9],[63.7,44.5,63.9,45.3],[66.5,45.3,66.7,44.5],[64.8,45.2,65.4,44.7],[67,44.7,67.6,45.2],[64.8,45,65.2,45.2],[65.2,45.2,65.6,45],[64.5,44.7,64.8,45],[65.6,45,65.8,44.7],[62.6,44.8,63.1,43.8],[69.2,43.8,69.7,44.8],[65.4,44.7,66.2,44.5],[66.2,44.5,67,44.7],[64.6,44.3,64.5,44.7],[65.8,44.7,65.8,44.3],[60.5,44.6,60.7,43.2],[69.9,43.2,70,44.6],[60.5,44.6,60.4,44.5],[70,44.6,69.9,44.5],[61.9,43.6,61.7,44.6],[68.8,44.6,68.7,43.6],[60.7,43.1,60.4,44.5],[69.9,44.5,69.8,43.1],[61.4,44.5,62.1,43.2],[70.4,43.2,71,44.5],[63.9,43.8,63.7,44.5],[66.7,44.5,66.6,43.8],[62.1,43.1,61.3,44.4],[71,44.4,70.3,43.1],[64.8,44,64.6,44.3],[65.8,44.3,65.6,44],[65.2,43.9,64.8,44],[65.6,44,65.2,43.9],[63.1,43.8,64,43],[68.4,43,69.2,43.8],[64.5,43.3,63.9,43.8],[66.6,43.8,66,43.3],[62.4,42.6,61.9,43.6],[68.7,43.6,68.2,42.6],[65.3,43.1,64.5,43.3],[66,43.3,65.3,43.1],[60.7,43.2,61.5,41.9],[69.2,41.9,69.9,43.2],[62.1,43.2,63.3,42.1],[69.3,42.1,70.4,43.2],[61.4,41.8,60.7,43.1],[69.8,43.1,69.2,41.8],[63.2,42,62.1,43.1],[70.3,43.1,69.2,42],[64,43,65.1,42.5],[67.4,42.5,68.4,43],[63.3,41.9,62.4,42.6],[68.2,42.6,67.4,41.9],[65.1,42.5,66.2,42.3],[66.2,42.3,67.4,42.5],[63.3,42.1,64.8,41.4],[67.9,41.4,69.3,42.1],[64.7,41.3,63.2,42],[69.2,42,67.8,41.3],[61.5,41.9,62.5,40.9],[68.2,40.9,69.2,41.9],[64.3,41.4,63.3,41.9],[67.4,41.9,66.5,41.4],[62.5,40.8,61.4,41.8],[69.2,41.8,68.1,40.8],[64.8,41.4,66.3,41.2],[66.3,41.2,67.9,41.4],[65.4,41.2,64.3,41.4],[66.5,41.4,65.4,41.2],[66.3,41.1,64.7,41.3],[67.8,41.3,66.3,41.1],[62.5,40.9,63.9,40.2],[66.9,40.2,68.2,40.9],[63.9,40.1,62.5,40.8],[68.1,40.8,66.8,40.1],[63.9,40.2,65.4,40],[65.4,40,66.9,40.2],[65.4,39.9,63.9,40.1],[66.8,40.1,65.4,39.9]],"slang":[[65.7,43.9],[66.2,44.3],[66.7,44.7],[67.1,45.2],[67.6,45.7],[68.1,46.1],[68.5,46.5],[69,46.9],[69.4,47.1],[69.9,47.4],[70.4,47.5],[71.1,47.5],[71.7,47.5],[72.4,47.4],[73.1,47.3],[73.8,47.1],[74.4,46.8],[75.1,46.5],[75.7,46.1],[76.3,45.7],[76.8,45.1],[77.2,44.5],[77.7,43.8],[78.1,43],[78.5,42.1],[78.9,41.1],[79.2,40.2],[79.6,39.2],[79.9,38.2],[80.1,37.1],[80.4,36.2],[80.6,35],[80.8,33.8],[80.9,32.6],[81,31.3],[81.1,30],[81.1,28.6],[81.1,27.3],[81.2,25.9],[81.2,24.6],[81.3,23.2]]};   // punkt BA: ritningslinjerna i kort 13 (räknas fram av verktyg/ai3.mjs)
 const INTRO_PAUS = 400;   // punkt BC: ms efter att rösten är klar innan nästa rad eller kort kommer
 const IB = (namn, extra = {}) => ({ id: extra.id || namn, src: `intro/${namn}.webp`, ...extra });
@@ -9302,7 +9348,7 @@ function julScen() {
     konfetti(260); fanfar(); ljud.stor();
     S.julFirad = true; julPagar = false; sparaSnart(); kollaSkylt();   // sista polaroiden tas av polaroidväggen
     // kvällen: gästerna går, flaggan är uppe – mammas brev ligger i postlådan
-    setTimeout(() => { ui.toast('Gästerna har gått. Flaggan på postlådan är uppe.', 'guld'); if (!S.lappar.includes('mammajul')) { S.post.lapp = 'mammajul'; visaPostInne(); sparaSnart(); } }, 9000);
+    ui.toast('Gästerna har gått. Flaggan på postlådan är uppe.', 'guld'); if (!S.lappar.includes('mammajul')) { S.post.lapp = 'mammajul'; visaPostInne(); sparaSnart(); }   // U012: när julscenen är slut
   }
   nasta();
 }
@@ -9513,7 +9559,7 @@ function nLappLast(i) {
   const b = N_BEST[i]; if (!b) return;
   S.n.vill = b.id;
   if (b.id === 'n_kopp' && !S.ritningar.includes('recept:n_kopp')) S.ritningar.push('recept:n_kopp');
-  setTimeout(() => ui.toast(`N. vill ha: ${VAROR[b.id].namn.toLowerCase()} – lådan märkt N. står vid staketet i norr`, 'guld'), 1500);
+  efterBrev('n' + i, () => ui.toast(`N. vill ha: ${VAROR[b.id].namn} – lådan märkt N. står vid staketet i norr`, 'guld'));   // U013
   sparaSnart();
 }
 interaktor.registrera(nLada, {
@@ -11018,6 +11064,7 @@ function kedja(id) {
   }
 }
 paHandelse('skyltKlar', () => kedja('skylt'));
+paHandelse('placerat', ({ sak }) => { if (sak === 'leveranslada') ui.toast('Leveranslådan är på – skrivarna printar vidare av sig själva.', 'guld'); });   // U002
 paHandelse('placerat', ({ sak }) => {   // punkt BD: mamma om jacuzzin, 30 s efter att den står ute (en gång)
   if (sak !== 'jacuzzi' || S.mammaJacuzzi) return; S.mammaJacuzzi = true; sparaSnart();
   MAMMA_SVAR_K2.forEach((t, i) => setTimeout(() => sms('mamma', t), 30000 + i * 4000));

diff --git a/spel/printa-hem/index.html b/spel/printa-hem/index.html
@@ -9,27 +9,27 @@
 {
  "imports": {
   "three": "https://cdn.jsdelivr.net/npm/three@0.170.0/build/three.module.js",
-  "./balans.js": "./balans.js?v=e54c8b359d",
-  "./brand.js": "./brand.js?v=e54c8b359d",
-  "./gardplan.js": "./gardplan.js?v=e54c8b359d",
-  "./hud.js": "./hud.js?v=e54c8b359d",
-  "./intro-bilder.js": "./intro-bilder.js?v=e54c8b359d",
-  "./miljo.js": "./miljo.js?v=e54c8b359d",
-  "./spel.js": "./spel.js?v=e54c8b359d",
-  "./ui-kit.js": "./ui-kit.js?v=e54c8b359d",
-  "../../delat/fp/index.js": "../../delat/fp/index.js?v=e54c8b359d",
-  "../../delat/fp/interaktion.js": "../../delat/fp/interaktion.js?v=e54c8b359d",
-  "../../delat/fp/magi.js": "../../delat/fp/magi.js?v=e54c8b359d",
-  "../../delat/fp/smuts.js": "../../delat/fp/smuts.js?v=e54c8b359d",
-  "../../delat/fp/spelare.js": "../../delat/fp/spelare.js?v=e54c8b359d",
-  "../../delat/fp/system.js": "../../delat/fp/system.js?v=e54c8b359d",
-  "../../delat/fp/ui.js": "../../delat/fp/ui.js?v=e54c8b359d",
-  "../../delat/motor.js": "../../delat/motor.js?v=e54c8b359d"
+  "./balans.js": "./balans.js?v=89bf63bc15",
+  "./brand.js": "./brand.js?v=89bf63bc15",
+  "./gardplan.js": "./gardplan.js?v=89bf63bc15",
+  "./hud.js": "./hud.js?v=89bf63bc15",
+  "./intro-bilder.js": "./intro-bilder.js?v=89bf63bc15",
+  "./miljo.js": "./miljo.js?v=89bf63bc15",
+  "./spel.js": "./spel.js?v=89bf63bc15",
+  "./ui-kit.js": "./ui-kit.js?v=89bf63bc15",
+  "../../delat/fp/index.js": "../../delat/fp/index.js?v=89bf63bc15",
+  "../../delat/fp/interaktion.js": "../../delat/fp/interaktion.js?v=89bf63bc15",
+  "../../delat/fp/magi.js": "../../delat/fp/magi.js?v=89bf63bc15",
+  "../../delat/fp/smuts.js": "../../delat/fp/smuts.js?v=89bf63bc15",
+  "../../delat/fp/spelare.js": "../../delat/fp/spelare.js?v=89bf63bc15",
+  "../../delat/fp/system.js": "../../delat/fp/system.js?v=89bf63bc15",
+  "../../delat/fp/ui.js": "../../delat/fp/ui.js?v=89bf63bc15",
+  "../../delat/motor.js": "../../delat/motor.js?v=89bf63bc15"
  }
 }
   </script>
 </head>
 <body>
-  <script type="module" src="spel.js?v=e54c8b359d"></script>
+  <script type="module" src="spel.js?v=89bf63bc15"></script>
 </body>
 </html>
